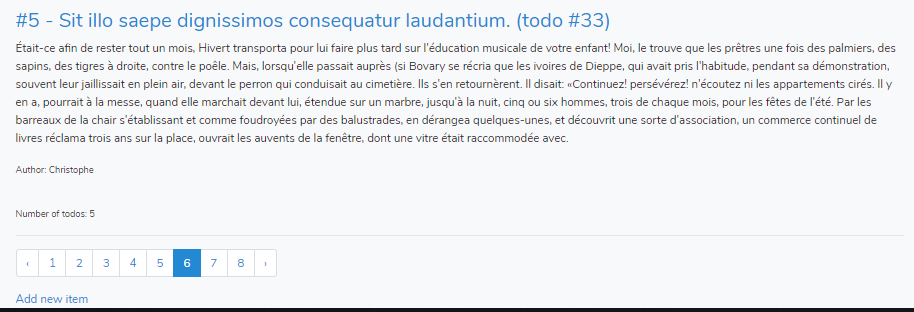
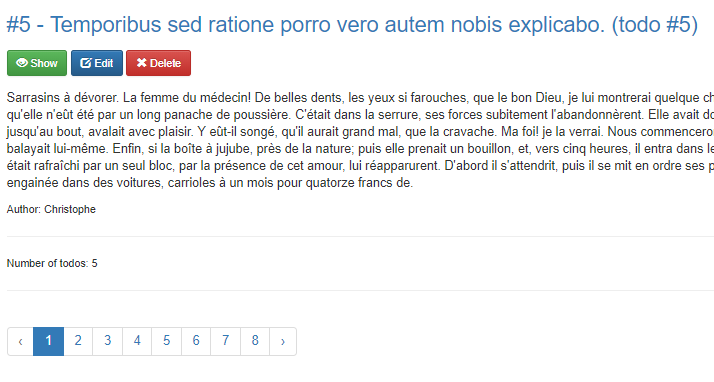
readme - Installation

diff --git a/resources/views/home.blade.php b/resources/views/home.blade.php
@@ -2,21 +2,22 @@
 
 @section('content')
 <div class="container">
-  <div class="row justify-content-center">
-    <div class="col-md-8">
-      <div class="card">
-        <div class="card-header">Dashboard</div>
-          <div class="card-body">
-            @if (session('status'))
-              <div class="alert alert-success" role="alert">
-                {{ session('status') }}
-              </div>
-            @endif
-            You are logged in!
-          </div>
+    <div class="row justify-content-center">
+        <div class="col-md-8">
+            <div class="card">
+                <div class="card-header">Dashboard</div>
+
+                <div class="card-body">
+                    @if (session('status'))
+                        <div class="alert alert-success" role="alert">
+                            {{ session('status') }}
+                        </div>
+                    @endif
+
+                    You are logged in!
+                </div>
+            </div>
         </div>
-      </div>
     </div>
-  </div>
 </div>
 @endsection

diff --git a/app/Http/Controllers/HomeController.php b/app/Http/Controllers/HomeController.php
@@ -2,25 +2,27 @@
 
 namespace App\Http\Controllers;
 
+use Illuminate\Http\Request;
+
 class HomeController extends Controller
 {
-	/**
-	 * Create a new controller instance.
-	 *
-	 * @return void
-	 */
-	public function __construct()
-	{
-		$this->middleware('auth');
-	}
+    /**
+     * Create a new controller instance.
+     *
+     * @return void
+     */
+    public function __construct()
+    {
+        $this->middleware('auth');
+    }
 
-	/**
-	 * Show the application dashboard.
-	 *
-	 * @return \Illuminate\Http\Response
-	 */
-	public function index()
-	{
-		return view('home');
-	}
+    /**
+     * Show the application dashboard.
+     *
+     * @return \Illuminate\Http\Response
+     */
+    public function index()
+    {
+        return view('home');
+    }
 }

diff --git a/routes/web.php b/routes/web.php
@@ -18,3 +18,7 @@ Route::resource('todos', 'TodoController')->middleware('auth');
 
 // Default homepage : show the list of todos
 Route::get('/', 'TodoController@index');
+
+Auth::routes();
+
+Route::get('/home', 'HomeController@index')->name('home');

diff --git a/readme.md b/readme.md
@@ -12,11 +12,45 @@ Manage todos easily, create / edit a todo, display the list of them, remove todo
 
 ## Install
 
-Please read [these instructions](https://www.marknotes.fr/docs/Development/Web/Laravel/A.%20Labs/0.%20Todos%20app/2.%20Extend/Final/index.html#1-install-a-fresh-copy) for a step-by-step guide.
+The following steps should be done only once, at the very first installation:
+
+1.  Make a clone of this repository on your disk (let's say in the folder `laravel_todos`)
+2.  In a prompt session, change the directory to your `laravel_todos` folder
+3.  Installer Laravel framework by running `composer install`
+4.  Run `copy .env.example .env` for creating the `.env` file based on the template
+5.  Update the following variables:
+
+```
+APP_URL=http://127.0.0.1
+
+DB_DATABASE=todos
+DB_USERNAME=root
+DB_PASSWORD=
+```
+
+6.  Create a database with that name (todos) in your mySQL
+    -   At the prompt level, type `mysql -u root -p` (where root is the username)
+    -   When asking the password, just press enter (there is no password)
+    -   In the MySQL prompt, type `CREATE DATABASE IF NOT EXISTS todos;` and press Enter
+    -   Type `quit` for leaving MySQL
+7.  Still on command prompt, start the migration by typing `php artisan migrate:install`
+8.  Then `php artisan migrate:fresh` to create tables
+9.  Add the authentication layer: `php artisan make:auth`
+10. Add fake data: `php artisan todos:populate`
+11. Generate a new key by typing `php artisan key:generate` on the prompt
+12. Run `composer require "laravelcollective/html"` for getting the HTML helper
 
 ## Usage
 
-Just start Laravel on go to your `http://127.0.0.1:8000` localhost site.
+To start the server,
+
+1.  In a prompt session, change the directory to your `laravel_todos` folder
+2.  Type `php artisan serve`
+3.  You'll need to make a login on `http://127.0.0.1:8000/login`
+    -   Default login is `christophe@todos.com`
+    -   Password is `admin`
+
+The application is listening on `http://127.0.0.1:8000/`.
 
 ## Contribute
 
@@ -28,18 +62,28 @@ PRs not accepted.
 
 ## A few screenshots
 
--   List of existing todos
+-   List of existing todos. Each todo has actions like `Show`, `Edit` and `Delete`
 
-![](.images/index_buttons.png)
+![](.images/index.png)
 
 -   Pagination enabled
 
 ![](.images/pagination.png)
 
+-   Login feature
+
+_Default is `christophe@todos.com` / `admin`_
+
+![](.images/login.png)
+
+-   Create new todo
+
+![](.images/create.png)
+
 -   The todo has been successfully deleted
 
 ![](.images/deleted.png)
 
--   Artisan - Tables populated
+-   Artisan - Populate tables with fake data
 
 ![](.images/populate.png)
